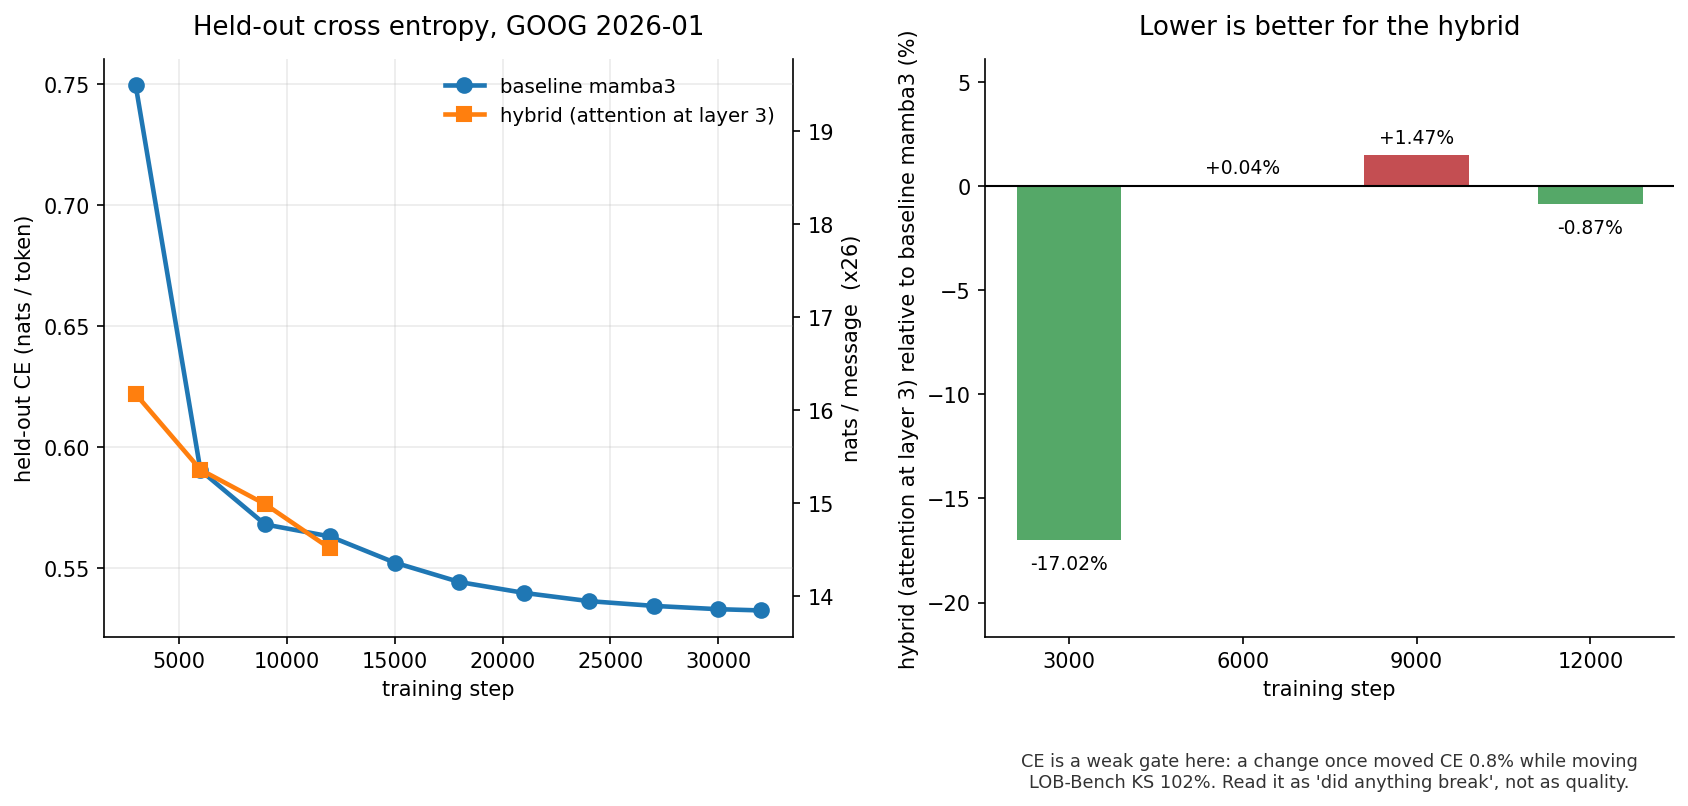
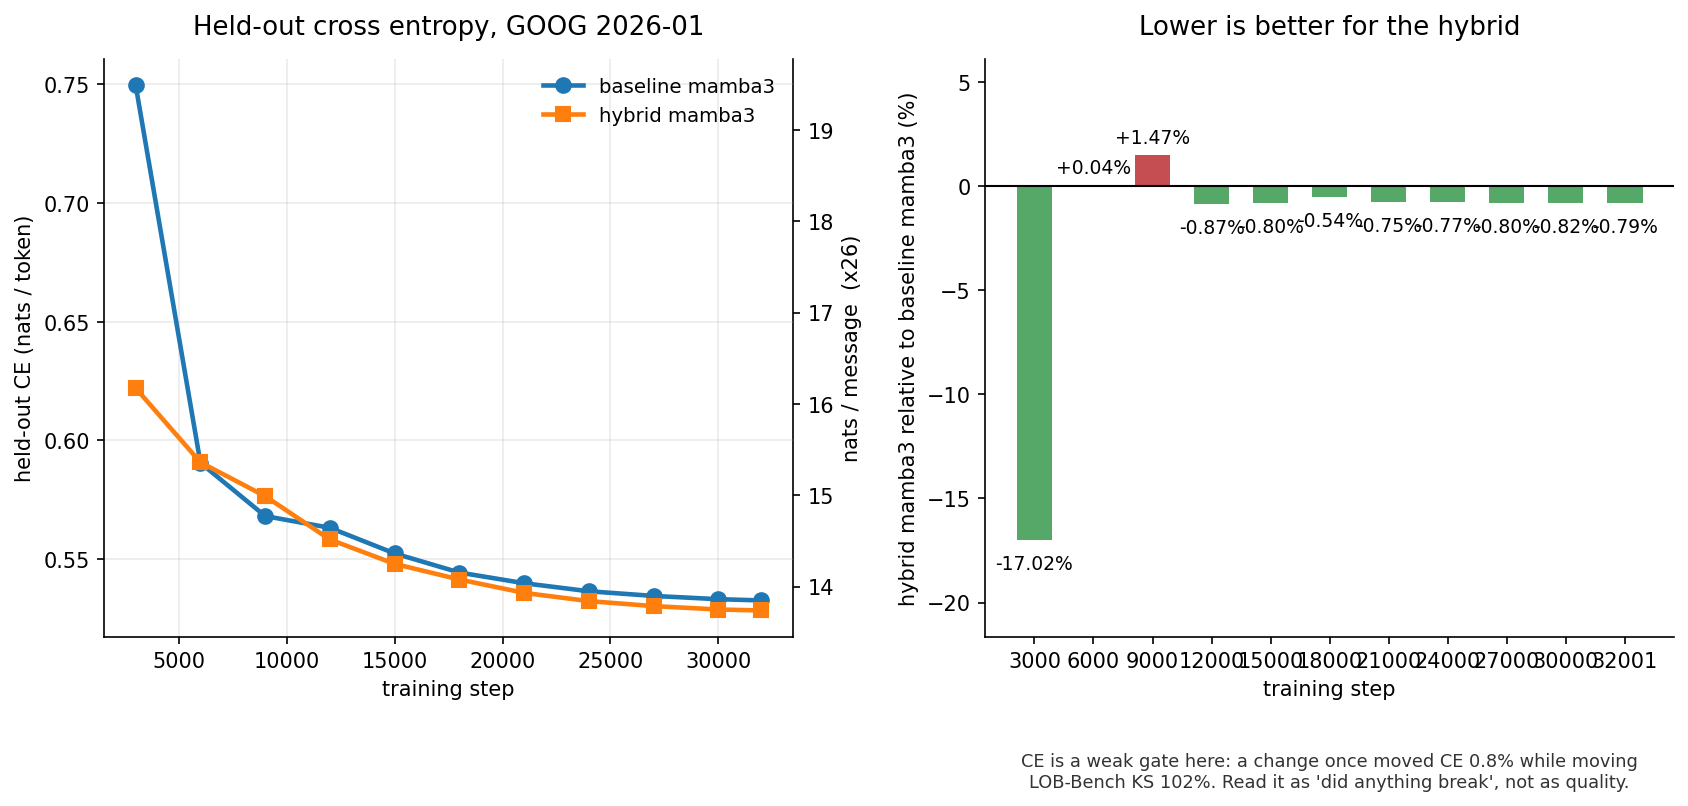
hybrid: the step-32001 reversal was my own bug, not an architectural result
use_positional_encoding gates the training forward and neither generation path.
A NoPE hybrid therefore trained without positional encoding and generated with a
sinusoidal one added to every query and key, a perturbation the same order of
magnitude as the activations themselves.

It accounts for every observation without needing anything else. Held-out CE
runs through the training path and stayed clean, a stable 0.79% ahead across all
eight checkpoints. Only generation degraded. The degradation grew with training
because the model leans on attention more as it learns, and it grew with
reference distance because the injected signal grows with absolute position.

Nothing upstream could have caught it. Training, loss, CE, and all four smokes
use the parallel path; a disagreement between paths cannot lower a loss curve.
The only instrument that sees it is the end-to-end benchmark, whose output looks
exactly like an architectural finding.

What stopped me from writing it up as one was the shape of the reversal rather
than any gate: the hybrid's recall barely moved between 12,000 and 32,001 while
the baseline gained 11.4 points. A real disadvantage has both curves rising with
one rising slower. One curve stopping is the shape of a fault.

Stage 6 is kept intact under a superseded banner, since the diagnostic chain is
the useful part. Stages 3 and 5 stand: their generation numbers were also
produced with attention corrupted, so the hybrid's wins there are a lower bound.

diff --git a/tasks/hybrid_system_20260811/05_hybrid_mamba3_lob/results/STAGE_7_ROOT_CAUSE_NOPE_LEAK.md b/tasks/hybrid_system_20260811/05_hybrid_mamba3_lob/results/STAGE_7_ROOT_CAUSE_NOPE_LEAK.md
@@ -1,0 +1,131 @@
+# Hybrid·阶段7：根因——NoPE 只关了训练路径，两条生成路径仍在注入位置编码（2026-08-12）
+
+> **一句话**：阶段6 看到的「CE 赢了、生成崩了」不是架构现象，是我自己的 bug。`use_positional_encoding` 这个开关我只加在了训练路径上，**生成路径无条件给每个 query 和 key 加了模型从没见过的正弦位置编码**。
+
+---
+
+## 1. 缺陷本身
+
+`src/s5/transformer.py` 里 `TransformerBlock` 有三条前向路径。开关只判了一条：
+
+| 路径 | 用在哪 | 是否判 `use_positional_encoding` |
+|---|---|:---:|
+| `__call__` | **训练**、loss、留出集 CE | ✅ 判了（180 行） |
+| `prefill` | 生成时的条件窗口 | ❌ **无条件加**（原 224 行） |
+| `__call_inference__` | 生成时的逐 token 解码 | ❌ **无条件加**（原 268 行） |
+
+hybrid 按 Nemotron 配方是 **NoPE**，`registry.py:316` 的默认值就是 `False`，`HYBRID_ATTN_PE` 从未设置。于是：
+
+```
+        ┌──────────── 训练（模型在这个分布上学了 32,000 步）────────────┐
+  x ───►│  norm ─► attention                                          │
+        └──────────────────────────────────────────────────────────────┘
+
+        ┌──────────── 生成（模型从没见过这个输入）─────────────────────┐
+  x ───►│  x + sinusoidal_PE ─► norm ─► attention                     │
+        └──────────────────────────────────────────────────────────────┘
+                  ↑
+            凭空多出来的信号，幅值 ±1，与激活同阶
+```
+
+`prefill` 里还有第二处内部不一致：
+
+```python
+output = self(input_sequence)                      # ← 无 PE（正确）
+...
+h = self.norm1((input_sequence + pe)...)           # ← 有 PE
+k = ... h ...; v = ... h ...                       # ← 缓存的 K/V 来自另一个输入
+```
+
+**返回的激活与缓存的 K/V 来自两个不同的输入。** 连条件窗口的 cache 都是错的。
+
+---
+
+## 2. 为什么它精确解释了阶段6 的每一个现象
+
+| 阶段6 的观察 | 这个 bug 的预测 | 对上了吗 |
+|---|---|:---:|
+| 留出集 CE 一路领先 0.75–0.87%，八个点位无例外 | CE 走 `__call__`，**不受影响**；测到的是模型真实水平 | ✅ |
+| 生成质量却全线变差 | 只有生成路径被污染 | ✅ |
+| 12,000 步时 hybrid 生成**更好**，32,000 步时**更差** | 训练越久越依赖 attention，**污染它的代价按依赖程度放大** | ✅ |
+| 引用越远越差（101–250 档 −10.72 pp 最惨） | PE 扰动随**绝对位置**增长，远距离回指受创最重 | ✅ |
+| 训练本身完全正常 | 训练根本没经过出问题的代码 | ✅ |
+
+**没有一条需要额外假设。** 而我原先的 exposure-bias 解释虽然也能凑出时间顺序，却**解释不了 CE 与生成的分离为何如此干净**——exposure bias 应当让两者都退化，只是程度不同。
+
+---
+
+## 3. 为什么所有闸门都看不见它
+
+这是本次最值得记住的部分：
+
+```
+   训练 ──► loss ──► 收敛曲线      ┐
+   CE 评测 ─────────────────────►  ├─ 全部走 __call__（干净的那条）
+   4 次冒烟测试 ────────────────►  ┘
+
+   生成 ──► LOB-Bench / 引用成功率 ─► 只有这里走 prefill + __call_inference__
+```
+
+**两条路径不一致，不可能压低任何一条 loss 曲线。** 所以：32,000 步训练、8 个 CE 点位、4 次冒烟，没有任何一个能报警——它们全都在另一条路径上。唯一能看见它的是端到端 benchmark，而 benchmark 的输出长得像「架构结论」。
+
+> 我差一点就把它写成了架构发现。挡住这一步的是**反转的形态不对**：hybrid 的回指率在 12k→32k 几乎不动而 baseline 涨了 11.43 pp。真实的架构劣势应当是两条都涨、一条涨得慢；**「一条停住了」是故障的形状，不是劣势的形状。**
+
+---
+
+## 4. 修复与回归测试
+
+修复：`prefill` 与 `__call_inference__` 都改为判 `self.use_positional_encoding`（commit `facf656`）。
+
+新增 `src/s5/tests/test_transformer_decode_parity.py`——**从第一次提交起就该存在的测试**：同一份输入分别走并行前向和 prefill+逐步解码，要求数值一致。
+
+**并且验证了这个测试抓得住 bug**（一个在修好和修坏时都通过的测试等于没有测试）：
+
+| 场景 | `use_pe=True`（对照） | `use_pe=False`（hybrid） |
+|---|---|---|
+| 修复后 | ✅ pass | ✅ pass |
+| 把 bug 打回去 | ✅ pass | ❌ **fail，误差 1.992** |
+
+对照组 `use_pe=True` 在两种情况下都通过，证明这个测试测的是**路径一致性**，而不只是「有没有 PE」。
+
+---
+
+## 5. ⭐ 对既有结论的影响：**是下界，不是上界**
+
+@12000 的生成结果**同样是在这个 bug 下产生的**。也就是说阶段3、阶段5 里 hybrid 赢下的每一个数，都是在 **attention 被污染**的情况下取得的：
+
+| 阶段5 已确认的结论（bug 状态下） | 修复后的预期方向 |
+|---|---|
+| WS-21 配对差 −0.03326，三 seed 同号 | 只会更好或持平 |
+| L1 精确 +2.22 pp，三 seed 同号 | 只会更好或持平 |
+| 六分箱全同号，远端 +13.10 pp | 远端受 PE 扰动最重，**修复后应当更大** |
+
+**这些结论不会因为修复而失效，只会被低估。** 需要重测的是**数值**，不是**方向**。
+
+反过来，阶段6 的「hybrid 更差」**全部作废**。
+
+---
+
+## 6. 重测计划
+
+baseline 是纯 mamba3，**根本不经过 `transformer.py`**，其全部数字不受影响，无需重跑。
+
+| 臂 | step | seed | 节点 | 目的 |
+|---|---|---|---|---|
+| hybrid（PE 修复） | 32001 | 2026 | nid010631 | 正牌对照 |
+| hybrid（PE 修复） | 12000 | 2026 | nid010669 | 更新阶段3，量化 bug 造成的低估 |
+| hybrid（PE 修复） | 32001 | 2027 | nid010670 | 正牌对照的 seed 配对 |
+
+---
+
+## 7. 变更记录
+
+| 时间 UTC | 事件 |
+|---|---|
+| 12:24:44Z | hybrid@32001 bench 完成，四项全线变差 |
+| 12:29Z | CE 轨迹八点全降且优于 baseline →「续训没生效」被推翻 |
+| ~12:35Z | 读 `transformer.py`，发现开关只判了一条路径 |
+| 12:38Z | 确认 `registry.py:316` 默认 `False`、`HYBRID_ATTN_PE` 从未设置 |
+| 12:40Z | 修复 + 回归测试，3 passed |
+| 12:41Z | 打回 bug 验证测试会红（误差 1.992），还原 |
+| 12:41Z | 停掉在跑的 @24000（坏代码），三个修复后的 bench 起飞 |

diff --git a/tasks/hybrid_system_20260811/05_hybrid_mamba3_lob/results/STAGE_6_STEP32001_REVERSAL.md b/tasks/hybrid_system_20260811/05_hybrid_mamba3_lob/results/STAGE_6_STEP32001_REVERSAL.md
@@ -1,4 +1,16 @@
-# Hybrid·阶段6：step 32001 的结论反转，且反转形态本身指向续训而非架构（2026-08-12）
+# Hybrid·阶段6：跑满 32,000 步后，CE 赢了而生成崩了（2026-08-12）
+
+> ## 🔴 本阶段的生成侧结论已全部作废，见 [阶段7 根因](STAGE_7_ROOT_CAUSE_NOPE_LEAK.md)
+>
+> 下文观察到的「CE 赢了、生成崩了」**不是架构现象，是代码缺陷**：`use_positional_encoding` 只在训练路径上生效，两条生成路径无条件给 NoPE 模型注入了正弦位置编码。已修复（commit `facf656`）并补上路径一致性回归测试；三个 bench 正在重跑。
+>
+> **保留下文原样**，因为诊断链条本身有价值：正是「反转的形态不对」这一点把调查从「架构结论」引向了「故障」。
+>
+> **仍然成立的**：留出集 CE 的全部数字（CE 走训练路径，不受影响）——hybrid@32001 = **0.528384** vs baseline **0.532610**，稳定领先 0.79%。
+
+**（以下为发现根因之前的原文）**
+
+> **一句话**：hybrid@32001 的留出集 CE **优于** baseline（0.528384 vs 0.532610，−0.79%），而它的生成质量**差** 5.8%（WS-21）到 11.19 pp（引用精确率）。**训练目标与评测目标在这里分道扬镳。**
 
 **对照**：hybrid@32001 vs baseline@32001，同一份冻结的 3,136 条索引，seed 2026，同一份评测代码。
 **产物**：`bench_20260812T120110Z_j5980745_hybrid_m3_s2026_93791/`
@@ -31,7 +43,11 @@
 
 ---
 
-## 2. ⭐ 但反转的**形态**不像架构劣势
+## 2. 我先提的假设：「续训没生效」——**已被 §3 推翻，保留原文备查**
+
+> **更正（12:29Z）**：本节结论「更像这段训练本身没有生效」**是错的**。§3 的 CE 轨迹显示训练完全正常且优于 baseline。本节的观察（hybrid 的回指率在 12k→32k 几乎不动）本身是对的，错的是从它推出的原因。下文原样保留。
+
+
 
 把两个步长的 hybrid 放在一起看：
 
@@ -54,6 +70,8 @@
 ```
 
 restore 时的训练 loss 是 **0.5518**，结束时报的是 **0.5671**——**更高**。（这一行可能是整个 epoch 的均值而非末端瞬时值，所以它是旁证不是定论。）
+
+> **更正**：它确实是 epoch 均值，含早期高 loss 段。把它当末端值读是误读。
 
 ### 与 step 12000 结论的关系
 
@@ -88,6 +106,9 @@ step 12000 的对照是**两臂各自从零训到 12,000** 的干净对照，其
 这正是本项目既有教训的极端形态（F296：同一改动 CE 只动 0.815% 而 LOB-Bench KS 动 102%），只是方向相反：**这次是 CE 赢了、生成崩了。**
 
 ### 领先假设：bootstrapping / exposure bias，且对 attention 更狠
+
+> **更正**：这个假设**是错的**。真因是生成路径的位置编码泄漏（阶段7）。exposure bias 能凑出时间顺序，但解释不了 CE 与生成为何分离得如此干净——它应当让两者都退化。**「能解释一部分」不等于「是根因」。**
+
 
 训练目标是 **teacher-forced** 的下一 token 交叉熵：每一步的输入都是**真实历史**。生成时模型吃的是**自己吐出来的历史**。训练越久，模型越贴合前者，而后者的分布偏移不受任何约束。
 
@@ -132,7 +153,7 @@ step 12000 的对照是**两臂各自从零训到 12,000** 的干净对照，其
 | LR schedule 未续上 | 日志 `[Restore] Schedule count = 12000`、`cosine period = 32000` |
 | dataloader 从头重放 | 日志 `Resuming from epoch 0, batch_idx=12000` |
 
-**注意最后两条**：它们证明的是**参数被正确设置**，不证明**训练真的在推进**。这正是 CE 诊断要回答的。
+**注意最后两条**：它们证明的是**参数被正确设置**，不证明**训练真的在推进**。CE 诊断（§3）已经回答：训练确实在推进，且推进得比 baseline 好。
 
 ---
 
@@ -142,3 +163,5 @@ step 12000 的对照是**两臂各自从零训到 12,000** 的干净对照，其
 |---|---|
 | 12:24:44Z | hybrid@32001 bench 完成，四项全线变差 |
 | 12:27Z | 对续训 checkpoint 启动 CE 诊断 |
+| 12:29Z | CE 轨迹八点全下降，终点 0.528384 优于 baseline 0.532610。「续训没生效」假设**被推翻** |
+| 12:29Z | 起 hybrid@24000 bench，检验「生成质量中途见顶」 |
